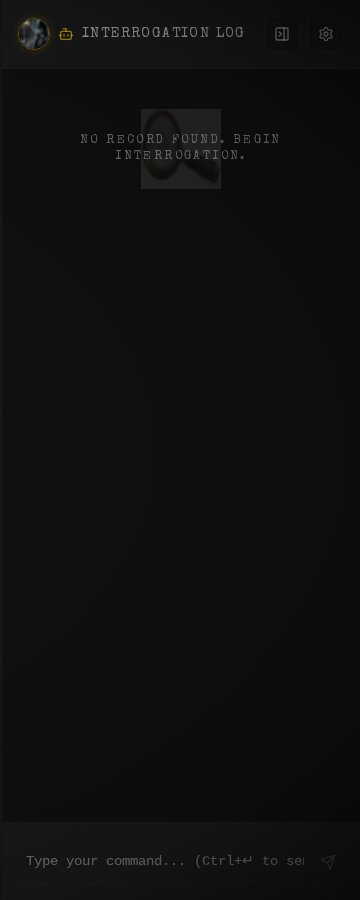
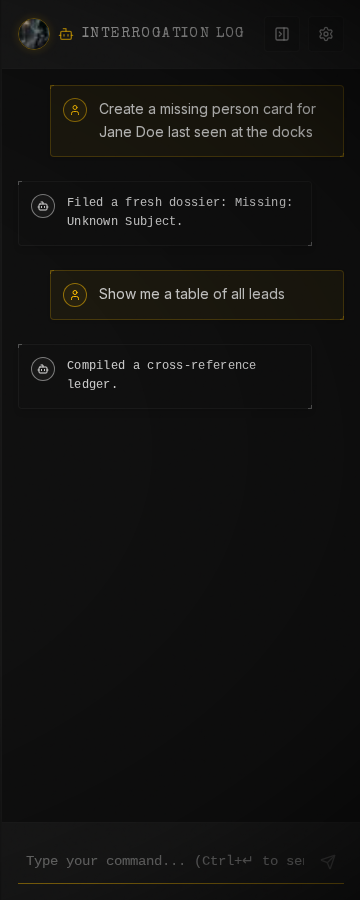
fix: retake screenshots with correct chat input targeting
The script was typing into the left editor panel instead of the chat
input in the right sidebar. Now targets input[name="chat-input"],
clears localStorage and IndexedDB before capture, and sends two
messages to populate the board with card and table components.

diff --git a/scripts/take-screenshots.ts b/scripts/take-screenshots.ts
@@ -1,15 +1,30 @@
 /**
  * Take README screenshots using Playwright.
- * Run: pnpm exec playwright test scripts/take-screenshots.ts
- * Or directly: npx tsx scripts/take-screenshots.ts
+ * Run: npx tsx scripts/take-screenshots.ts
  *
  * Requires E2E=1 so the app uses mock providers.
+ * Start dev server first: E2E=1 pnpm dev
  */
 import { chromium } from "playwright";
 import path from "path";
 
 const BASE_URL = "http://localhost:3000";
 const OUT_DIR = path.resolve("docs/screenshots");
+
+/** Type a message into the chat input and submit it. */
+async function sendChat(page: import("playwright").Page, message: string) {
+  const input = page.locator('input[name="chat-input"]');
+  await input.fill(message);
+  await input.press("Enter");
+}
+
+/** Wait for n assistant messages to appear in the chat sidebar. */
+async function waitForAssistantMessages(page: import("playwright").Page, count: number) {
+  // The evidence stamp appears once a component renders on the board
+  await page.waitForSelector('[data-testid="evidence-stamp"]', { timeout: 10_000 });
+  // Give the UI a moment to finish animations
+  await page.waitForTimeout(800);
+}
 
 async function main() {
   const browser = await chromium.launch({ headless: true });
@@ -19,26 +34,40 @@ async function main() {
   });
   const page = await context.newPage();
 
-  // 1. Full workspace
   await page.goto(BASE_URL);
   await page.waitForSelector('[data-testid="desk-layout"]');
-  await page.waitForTimeout(1000);
+
+  // Clear all persisted state so we start fresh
+  await page.evaluate(async () => {
+    localStorage.clear();
+    // Also clear IndexedDB
+    const dbs = await indexedDB.databases();
+    for (const db of dbs) {
+      if (db.name) indexedDB.deleteDatabase(db.name);
+    }
+  });
+  await page.reload();
+  await page.waitForSelector('[data-testid="desk-layout"]');
+  await page.waitForTimeout(500);
+
+  // 1. Send a card prompt so the board has content
+  await sendChat(page, "Create a missing person card for Jane Doe last seen at the docks");
+  await waitForAssistantMessages(page, 1);
+
+  // Capture workspace with generated component visible
   await page.screenshot({ path: path.join(OUT_DIR, "workspace.png"), fullPage: false });
   console.log("Captured: workspace.png");
 
-  // 2. Send a message to get a UI component on the board
-  const input = page.locator('input[type="text"], textarea').first();
-  if (await input.isVisible()) {
-    await input.fill("Create a missing person card for Jane Doe last seen at the docks");
-    await input.press("Enter");
-    // Wait for the AI response to render
-    await page.waitForTimeout(3000);
-    await page.screenshot({ path: path.join(OUT_DIR, "evidence-board.png"), fullPage: false });
-    console.log("Captured: evidence-board.png");
-  }
+  // 2. Send a second message to add a table component
+  await sendChat(page, "Show me a table of all leads");
+  await page.waitForTimeout(2000);
+
+  // Capture the evidence board with multiple components
+  await page.screenshot({ path: path.join(OUT_DIR, "evidence-board.png"), fullPage: false });
+  console.log("Captured: evidence-board.png");
 
   // 3. Chat sidebar closeup
-  const sidebar = page.locator('[data-testid="chat-sidebar"]').first();
+  const sidebar = page.locator('[data-testid="chat-sidebar"]');
   if (await sidebar.isVisible()) {
     await sidebar.screenshot({ path: path.join(OUT_DIR, "chat-sidebar.png") });
     console.log("Captured: chat-sidebar.png");
